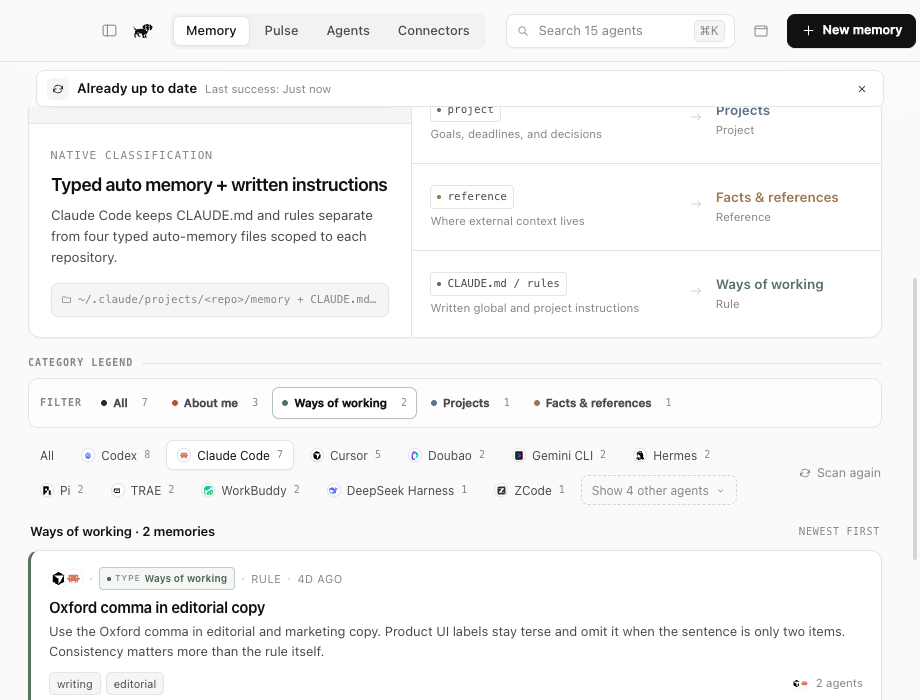
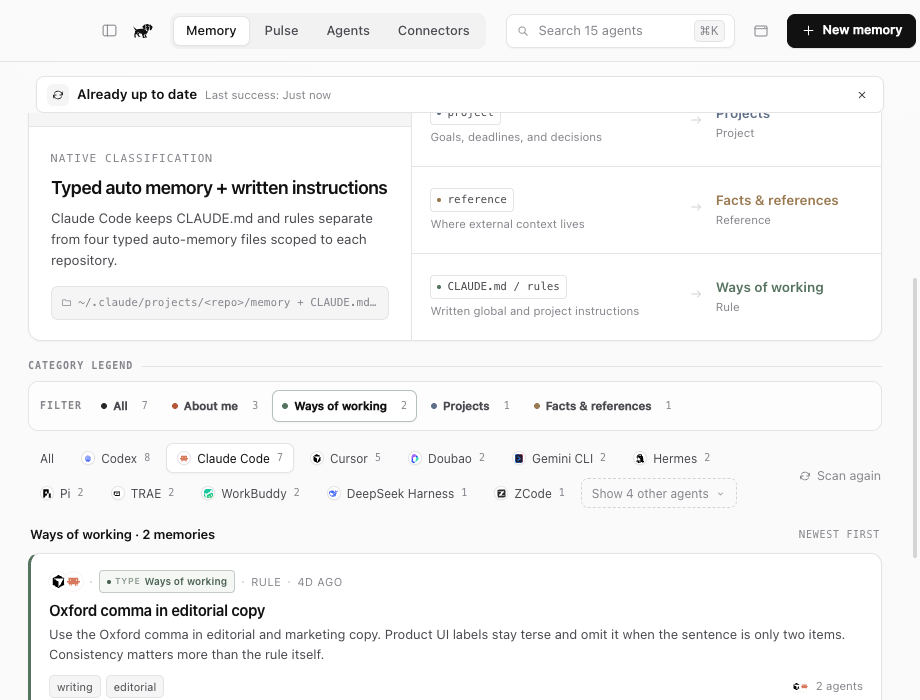
style: balance sync notice spacing

diff --git a/src/renderer/src/App.tsx b/src/renderer/src/App.tsx
@@ -299,6 +299,7 @@ export default function App() {
   }
 
   const showLanding = !state.onboarded || landingOpen
+  const showSyncNotice = Boolean(syncNotice && !detail)
   const activeAgent = activeAgentId
     ? state.agents.find((agent) => agent.id === activeAgentId) ?? null
     : null
@@ -339,7 +340,7 @@ export default function App() {
         {sidebarMode && (
           <Sidebar view={view} onChange={setView} counts={state.counts} />
         )}
-        <main className="main">
+        <main className={`main ${showSyncNotice ? 'has-sync-notice' : ''}`}>
           {updater.visible && updater.state && (
             <UpdateNotice
               update={updater.state}
@@ -348,7 +349,7 @@ export default function App() {
               onDismiss={updater.dismiss}
             />
           )}
-          {syncNotice && !detail && (
+          {showSyncNotice && syncNotice && (
             <SyncNotice
               result={syncNotice}
               lastSuccessfulSyncAt={state.sync.lastSuccessfulSyncAt}

diff --git a/src/renderer/src/styles.css b/src/renderer/src/styles.css
@@ -1219,6 +1219,7 @@ kbd {
   position: absolute;
   top: 28px;
   right: 36px;
+  z-index: 2;
   display: inline-flex;
   align-items: center;
   gap: 5px;
@@ -3788,7 +3789,7 @@ button.pulse-series-item:focus-visible {
 .sync-notice {
   width: min(1020px, calc(100% - 72px));
   flex: 0 0 auto;
-  margin: 8px auto 0;
+  margin: 14px auto 0;
   overflow: hidden;
   border: 1px solid var(--line);
   border-radius: 8px;
@@ -3969,6 +3970,16 @@ button.pulse-series-item:focus-visible {
 
 .sync-notice.compact .sync-notice-copy span {
   font-size: 10.5px;
+}
+
+.main.has-sync-notice .feed,
+.main.has-sync-notice .page,
+.main.has-sync-notice .agent-memory-view {
+  padding-top: 14px;
+}
+
+.main.has-sync-notice .back-link {
+  top: 18px;
 }
 
 .sync-settings-status {
